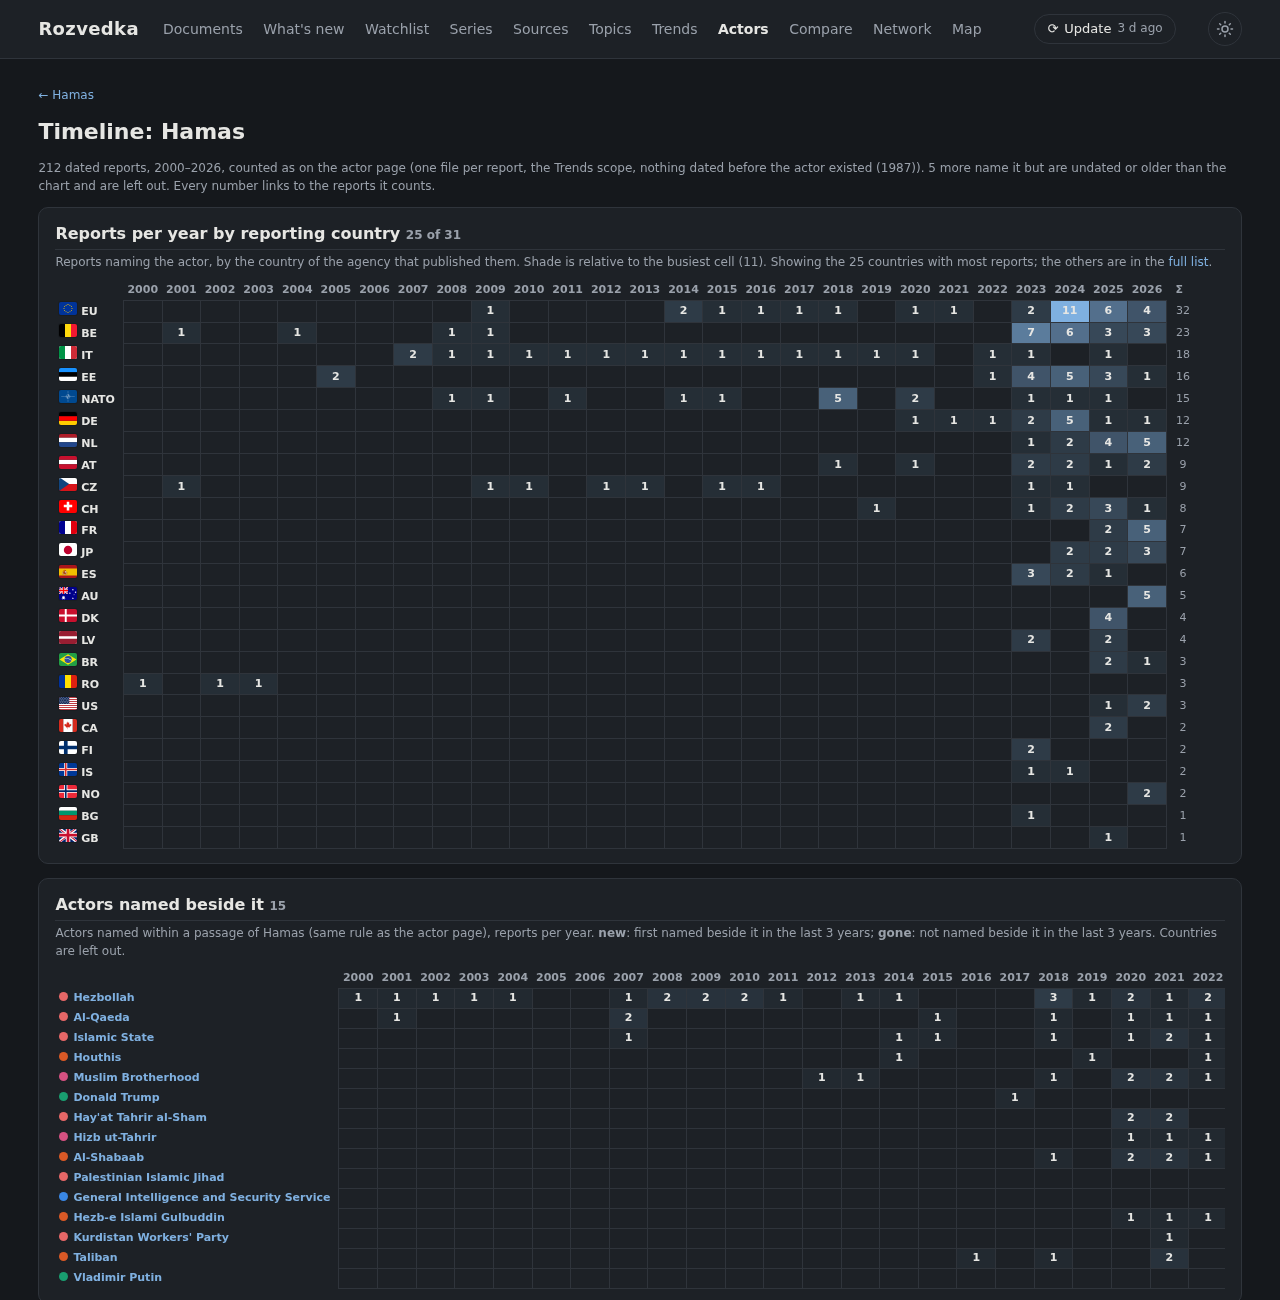
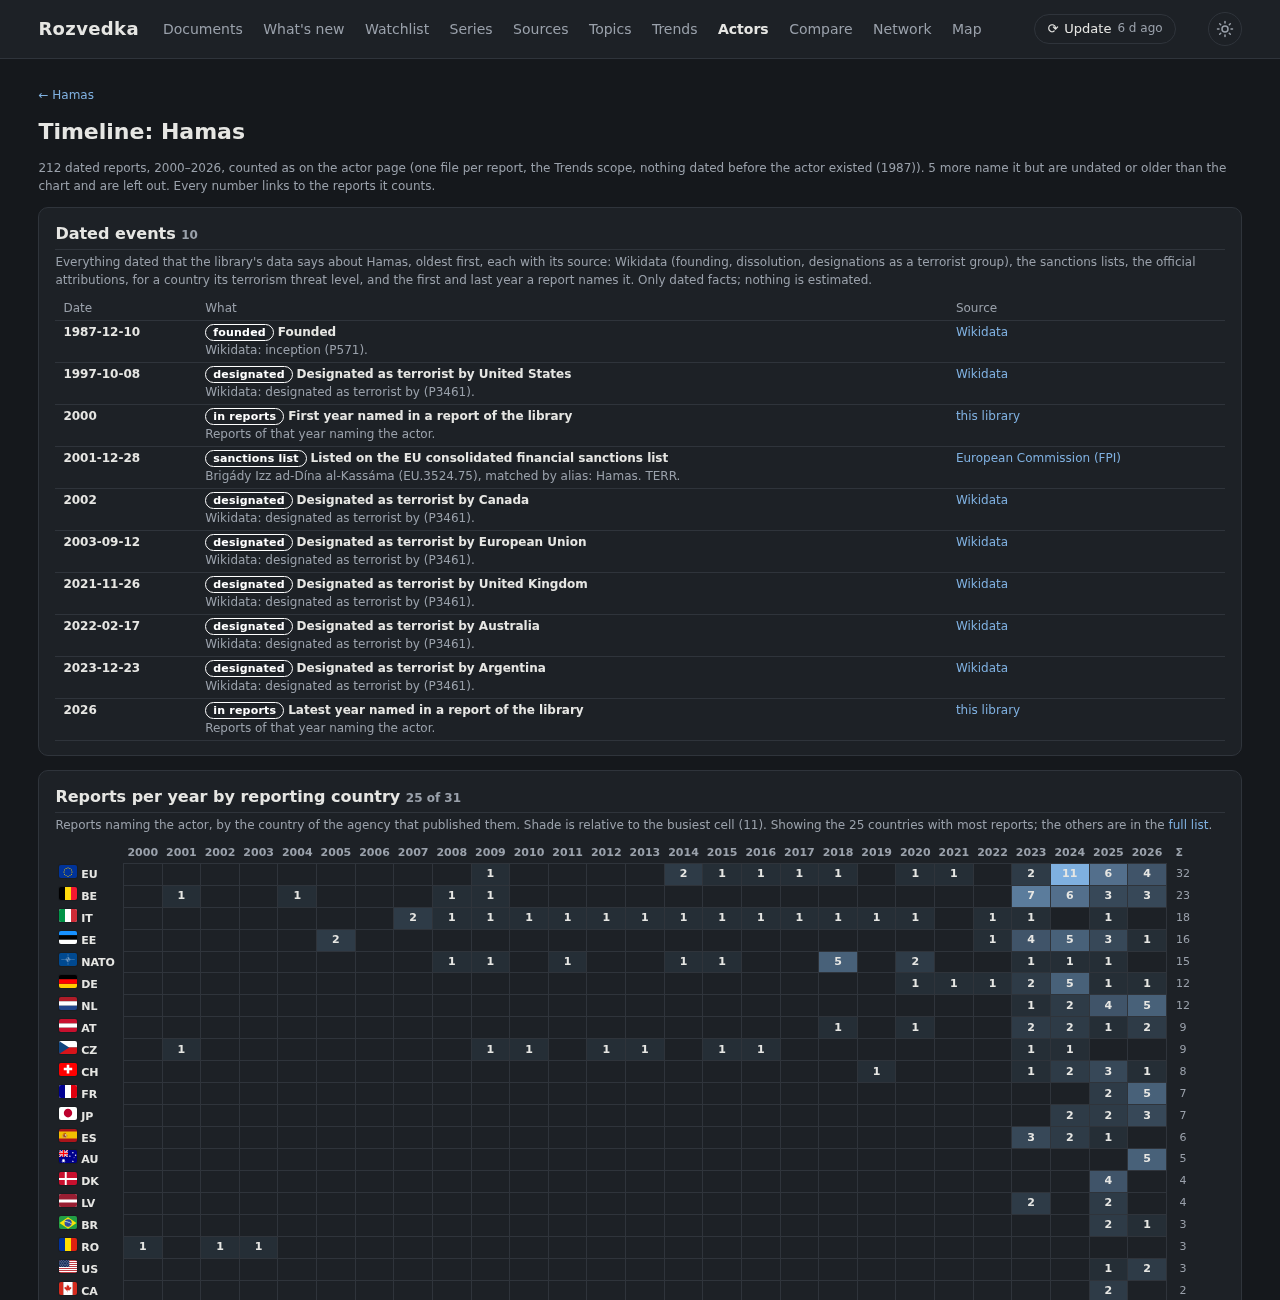
feat: dated events with sources on the actor timeline (0.52.0)

Changed region(s): [[0.0312, 0.1538, 0.9375, 1.0], [0.7812, 0.5538, 0.875, 0.6154]]

diff --git a/rozvedka/templates/actor_timeline.html b/rozvedka/templates/actor_timeline.html
@@ -12,6 +12,22 @@
   {% if undated %}{{ undated }} more name{{ 's' if undated == 1 }} it but {{ 'is' if undated == 1 else 'are' }} undated or older than the chart and {{ 'is' if undated == 1 else 'are' }} left out. {% endif %}
   Every number links to the reports it counts.</p>
 
+{% if events %}
+<section class="viz-card" id="events">
+  <h2 class="viz-title">Dated events <span class="muted small">{{ events|length }}</span></h2>
+  <p class="muted small viz-sub">Everything dated that the library's data says about {{ a.label }}, oldest first, each with its source: Wikidata (founding, dissolution,
+    designations as a terrorist group), the sanctions lists, the official attributions, for a country its terrorism threat level, and the first
+    and last year a report names it. Only dated facts; nothing is estimated.</p>
+  <table class="rp-topics small">
+    <thead><tr><th>Date</th><th>What</th><th>Source</th></tr></thead>
+    {% for e in events %}<tr><th class="nw">{{ e.date }}</th>
+      <td><span class="ctag">{{ {'founded': 'founded', 'dissolved': 'dissolved', 'designated': 'designated', 'listed': 'sanctions list', 'attributed': 'attribution', 'threat-level': 'threat level', 'first': 'in reports', 'last': 'in reports'}[e.kind] }}</span>
+        <b>{{ e.title }}</b>{% if e.detail %}<br><span class="muted">{{ e.detail }}</span>{% endif %}
+        {% if e.quote %}<blockquote class="snippet small">“{{ e.quote }}”</blockquote>{% endif %}</td>
+      <td>{% if e.source_url %}<a href="{{ e.source_url }}"{% if e.source != 'this library' %} rel="noopener"{% endif %}>{{ e.source }}</a>{% else %}{{ e.source }}{% endif %}</td></tr>{% endfor %}
+  </table>
+</section>
+{% endif %}
 <section class="viz-card">
   <h2 class="viz-title">Reports per year by reporting country <span class="muted small">{{ countries|length }} of {{ n_countries }}</span></h2>
   <p class="muted small viz-sub">Reports naming the actor, by the country of the agency that published them. Shade is relative to the

diff --git a/rozvedka/templates/actor.html b/rozvedka/templates/actor.html
@@ -39,7 +39,7 @@
   <h2 class="viz-title">In the reports</h2>
   <p class="viz-sub muted small"><b>{{ docs }}</b> reports by <b>{{ agencies|length }}</b> agencies mention {{ a.label }}
     · <a href="/documents?actor={{ a.key }}">list them</a> · <a href="/compare?actor={{ a.key }}">compare what agencies say</a>
-    · <a href="/actors/{{ a.key }}/timeline">timeline by agency, country and neighbour</a>
+    · <a href="/actors/{{ a.key }}/timeline">dated events and timeline by agency, country and neighbour</a>
     <form method="post" action="/watch/add" class="inline"><input type="hidden" name="query" value='actor:"{{ a.label }}"'>
       <button class="watch-btn" title="Follow this actor update by update on the Watchlist">☆ Watch</button></form></p>
   {% if timeline %}

diff --git a/rozvedka/actor_events.py b/rozvedka/actor_events.py
@@ -1,0 +1,69 @@
+"""Dated events of one actor, each with its source: what the library's data says happened when.
+
+  founded / dissolved   – Wikidata (inception P571, dissolved P576)
+  designated (Wikidata) – "designated as terrorist by" statements with a start date (P3461)
+  designated (list)     – entries of the EU, UK, UN and US sanctions lists with a date (the OFAC file has none)
+  attributed            – official statements naming the actor (sources/attributions.yaml)
+  threat level          – for a country: the official announcements of changes of its terrorism threat level
+  first / last named    – the earliest and latest year a report in the library names the actor
+Only dated facts are listed; nothing is inferred and nothing is estimated."""
+import json
+
+from . import actors, attributions, db, sanctions, threat_levels, trends
+
+
+def _sortable(date: str) -> str:
+    return (str(date) + "-00-00")[:10] if len(str(date)) < 10 else str(date)[:10]
+
+
+def of_actor(key: str) -> list[dict]:
+    out: list[dict] = []
+    with db.session() as con:
+        actors.init()
+        row = con.execute("SELECT key, label, kind, iso, data FROM actors WHERE key=?", (key,)).fetchone()
+        if not row:
+            return []
+        data = json.loads(row["data"] or "{}")
+        wd = (data.get("wikidata") or {})
+        wd_url = wd.get("url")
+        wd_src = {"source": "Wikidata", "source_url": wd_url}
+        if data.get("inception"):
+            out.append({"date": data["inception"], "kind": "founded", "title": "Founded", "detail": "Wikidata: inception (P571).", **wd_src})
+        if data.get("dissolved"):
+            out.append({"date": data["dissolved"], "kind": "dissolved", "title": "Dissolved", "detail": "Wikidata: dissolved (P576).", **wd_src})
+        for d in data.get("designations") or []:
+            if d.get("start"):
+                out.append({"date": d["start"], "kind": "designated", "title": f"Designated as terrorist by {d.get('by_label') or d.get('by')}",
+                            "detail": "Wikidata: designated as terrorist by (P3461)" + (f", until {d['end']}" if d.get("end") else "") + ".",
+                            **wd_src})
+        where, args, _ = trends.scope()
+        r = con.execute(
+            f"""SELECT MIN(d.year) y0, MAX(d.year) y1 FROM doc_actors da JOIN documents d ON d.id=da.doc_id
+                JOIN sources s ON s.id=d.source_id JOIN doc_index i ON i.doc_id=d.id
+                WHERE da.actor_key=? AND {where} AND {actors.NOT_BEFORE_FOUNDED.replace('a.since_year', '(SELECT since_year FROM actors WHERE key=da.actor_key)')}
+                AND d.year >= ?""", (key, *args, trends.MIN_YEAR)).fetchone()
+        if r and r["y0"]:
+            for which, y in (("first", r["y0"]), ("last", r["y1"])):
+                if which == "last" and r["y1"] == r["y0"]:
+                    continue
+                out.append({"date": str(y), "kind": which, "title": f"{'First' if which == 'first' else 'Latest'} year named in a report of the library",
+                            "detail": "Reports of that year naming the actor.", "source": "this library",
+                            "source_url": trends.docs_url({"actor": key}, year=y)})
+        iso = row["iso"] if row["kind"] == "country" else None
+    for s in sanctions.of_actor(key):
+        if s.get("date"):
+            out.append({"date": s["date"], "kind": "listed", "title": f"Listed on the {sanctions.LISTS[s['list']]['name']}",
+                        "detail": f"{s['entry']} ({s['ref']}), matched by {s['via']}: {s['matched']}." + (f" {s['programme']}." if s.get("programme") else ""),
+                        "source": sanctions.LISTS[s["list"]]["issuer"], "source_url": s["url"]})
+    for a in attributions.of_actor(key):
+        out.append({"date": a["date"], "kind": "attributed", "title": a["title"], "detail": a["says"],
+                    "source": a["by"], "source_url": a["url"], "quote": a["quote"], "confirmed": a["confirmed"]})
+    if iso:
+        for e in threat_levels.load():
+            if e["kind"] == "announcement" and e["country"] == iso:
+                out.append({"date": str(e["as_of"]), "kind": "threat-level",
+                            "title": f"Terrorism threat level {e['change']} to {e['label']}", "detail": f"{e['system']}: {e['says']}",
+                            "source": e["agency"], "source_url": e["url"], "quote": e["quote"]})
+    # a year without a day sorts to the start of the year – except "latest year", which goes to its end
+    out.sort(key=lambda e: ((e["date"] + "-99-99") if e["kind"] == "last" else _sortable(e["date"]), e["kind"]))
+    return out

diff --git a/tests/test_actor_events.py b/tests/test_actor_events.py
@@ -1,0 +1,62 @@
+"""Dated events of an actor: every fact has a date and a source."""
+import json
+
+import pytest
+from fastapi.testclient import TestClient
+
+from rozvedka import actor_events, actors, attributions, collect, db, sanctions, series, threat_levels, topics
+
+
+@pytest.fixture
+def library(tmp_path, monkeypatch):
+    monkeypatch.setattr(db, "DB_PATH", tmp_path / "t.db")
+    monkeypatch.setattr(series, "SERIES_FILE", tmp_path / "series.yaml")
+    monkeypatch.setattr(collect, "INBOX", tmp_path / "inbox")
+    f = tmp_path / "attributions.yaml"
+    f.write_text("""attributions:
+  - {date: 2025-05-21, by: NCSC, country: GB, kind: cyber, actors: [Q1], title: T1, url: "https://x/1", quote: q1, says: s1}
+""", encoding="utf-8")
+    monkeypatch.setattr(attributions, "FILE", f)
+    monkeypatch.setattr(attributions, "CHECKS", tmp_path / "checks.json")
+    attributions._checks.cache_clear()
+    monkeypatch.setattr(sanctions, "of_actor", lambda key: [
+        {"list": "EU", "ref": "EU.1", "entry": "Group X", "via": "name", "matched": "Group X", "programme": "Cyber", "date": "2020-10-22",
+         "url": "https://eur-lex.example/1"}] if key == "Q1" else [])
+    monkeypatch.setattr(threat_levels, "load", lambda: [
+        {"kind": "announcement", "country": "GB", "as_of": "2026-05-01", "label": "severe", "change": "from substantial", "system": "UK national",
+         "says": "Raised.", "agency": "MI5", "url": "https://mi5.example/", "quote": "raised"},
+        {"kind": "report", "country": "GB", "as_of": "2025", "label": "x", "change": None, "system": "s", "says": "s", "agency": "a", "url": "u", "quote": "q"}])
+    db.init()
+    collect.init()
+    topics.init()
+    actors.init()
+    data1 = {"inception": "2004", "dissolved": None, "wikidata": {"url": "https://wikidata.example/Q1"},
+             "designations": [{"by": "Q30", "by_label": "United States", "start": "1997-10-08", "end": None}, {"by": "Q801", "by_label": "Israel", "start": None, "end": None}]}
+    with db.session() as con:
+        con.execute("INSERT INTO sources(id,key,country,agency,type) VALUES(1,'CZ/X','CZ','X','cyber')")
+        con.execute("INSERT INTO actors(key,kind,label,data,since_year) VALUES('Q1','cyber','Group X',?,2004)", (json.dumps(data1),))
+        con.execute("INSERT INTO actors(key,kind,label,data,iso) VALUES('Q145','country','United Kingdom','{}','GB')")
+        for i, y in ((1, 2010), (2, 2024)):
+            con.execute("INSERT INTO documents(id,source_id,url,title,year,lang,status) VALUES(?,1,?,?,?,'en','downloaded')", (i, f"https://x/{i}.pdf", f"R{i}", y))
+            con.execute("INSERT INTO doc_text(rowid,title,body) VALUES(?,?,?)", (i, "", "Group X"))
+            con.execute("INSERT INTO doc_index(doc_id,chars,taxonomy_hash,pages) VALUES(?,?,?,?)", (i, 7, "x", "[0]"))
+            con.execute("INSERT INTO doc_actors(doc_id,actor_key,hits,spans,names) VALUES(?, 'Q1', 1, '[[0,7]]', '{}')", (i,))
+    return tmp_path
+
+
+def test_events_are_dated_sourced_and_sorted(library):
+    ev = actor_events.of_actor("Q1")
+    assert [(e["date"], e["kind"]) for e in ev] == [("1997-10-08", "designated"), ("2004", "founded"), ("2010", "first"),
+                                                    ("2020-10-22", "listed"), ("2024", "last"), ("2025-05-21", "attributed")]
+    assert all(e["source"] and e["source_url"] for e in ev)          # undated designations (Israel) are not listed
+    assert ev[0]["source_url"] == "https://wikidata.example/Q1" and "United States" in ev[0]["title"]
+    assert ev[3]["source_url"].startswith("https://eur-lex") and ev[5]["quote"] == "q1"
+    uk = actor_events.of_actor("Q145")
+    assert [(e["date"], e["kind"]) for e in uk] == [("2026-05-01", "threat-level")]       # only announcements, not report statements
+    assert actor_events.of_actor("nope") == []
+
+
+def test_page_shows_the_events(library):
+    from rozvedka.app import app
+    t = TestClient(app).get("/actors/Q1/timeline").text
+    assert 'id="events"' in t and "Designated as terrorist by United States" in t and "1997-10-08" in t and "Listed on the" in t

diff --git a/rozvedka/routes/actors.py b/rozvedka/routes/actors.py
@@ -1,7 +1,7 @@
 """Actors: list, review, pairs, sanctions, attributions, timeline and actor pages."""
 from fastapi import APIRouter, Form, HTTPException, Query, Request
 from fastapi.responses import FileResponse, RedirectResponse
-from .. import actor_profiles, actors, attributions, cves, db, graphs, paging, review, sanctions, timeline, topics, trends
+from .. import actor_events, actor_profiles, actors, attributions, cves, db, graphs, paging, review, sanctions, timeline, topics, trends
 from ..web import _years_desc, tpl
 
 router = APIRouter()
@@ -105,7 +105,7 @@ def actor_timeline(request: Request, key: str):
     d = timeline.detail(key)
     if d is None:
         raise HTTPException(404, "unknown actor")
-    return tpl.TemplateResponse(request, "actor_timeline.html", d)
+    return tpl.TemplateResponse(request, "actor_timeline.html", {**d, "events": actor_events.of_actor(key)})
 
 
 @router.get("/actors/{key}")

diff --git a/rozvedka/__init__.py b/rozvedka/__init__.py
@@ -5,7 +5,7 @@ from pathlib import Path
 
 # Single source of the release version (Semantic Versioning, https://semver.org).
 # Do not edit by hand: run `python3 tools/bump_version.py patch|minor|major` (see CHANGELOG.md, "Versioning").
-__version__ = "0.51.0"
+__version__ = "0.52.0"
 
 
 @lru_cache(maxsize=1)

diff --git a/CHANGELOG.md b/CHANGELOG.md
@@ -27,6 +27,15 @@ From 0.9.1 on, the significance of a change decides which part of `MAJOR.MINOR.P
 
 ## [Unreleased]
 
+## [0.52.0] – 2026-10-12
+
+### Added
+- **Dated events on the actor timeline**: the page `/actors/<key>/timeline` opens with everything dated that the library's data says
+  about the actor, oldest first, each with its source – founding and dissolution and designations as a terrorist group
+  (Wikidata, with the designating state), entries of the EU, UK, UN and US sanctions lists, the official attributions,
+  for a country the official changes of its terrorism threat level, and the first and last year a report names the actor.
+  Only dated facts; nothing is estimated (undated Wikidata designations are left out).
+
 ## [0.51.0] – 2026-10-12
 
 ### Added
@@ -1055,7 +1064,8 @@ From 0.9.1 on, the significance of a change decides which part of `MAJOR.MINOR.P
 - Crawler, polite downloader (robots.txt, per-host delay, PDF check, de-duplication) and FastAPI web portal.
 - systemd user units for the portal and a weekly update timer.
 
-[Unreleased]: https://github.com/iiogurt/Rozvedka/compare/v0.51.0...HEAD
+[Unreleased]: https://github.com/iiogurt/Rozvedka/compare/v0.52.0...HEAD
+[0.52.0]: https://github.com/iiogurt/Rozvedka/compare/v0.51.0...v0.52.0
 [0.51.0]: https://github.com/iiogurt/Rozvedka/compare/v0.50.0...v0.51.0
 [0.50.0]: https://github.com/iiogurt/Rozvedka/compare/v0.49.0...v0.50.0
 [0.49.0]: https://github.com/iiogurt/Rozvedka/compare/v0.48.0...v0.49.0

diff --git a/docs/ROADMAP.md b/docs/ROADMAP.md
@@ -111,6 +111,7 @@ Each item: why · what · done when · version step.
    DE PKGr, NO EOS-utvalget, DK TET, UK IPCO): official, and they report what the services do not. · patch (sources)
 5. ◐ (0.44.1: DE, NATO, US DoD; more countries to add) **National security strategies and white papers** – the governments' own strategy documents, linked to their
    agencies; a natural "document type" (B3). · patch (sources)
+6d. ✅ (0.52.0) **Dated events per actor** – Wikidata dates, sanctions-list entries, attributions, country threat levels and first/last report year on the actor timeline. Next: CVE and incident dates once they are tied to actors beyond nearness. · minor
 6c. ✅ (0.51.0) **Citations between reports and agencies** – addresses in the texts resolved against the library; `/citations`, report pages, Documents filter. Next: the names of cited documents (not only addresses), a graph by agency pair. · minor
 6b. ✅ (0.50.0) **Terrorism threat levels** – dated official statements per state with passage (UK MI5 announcements; levels stated in NL, BE, ES, AT, SE, LV reports). Next: more states (FI, DK, FR, CH), the NCTV quarterly levels. · minor
 6a. ✅ (0.49.0) **CVE numbers and the Known Exploited list** – CVEs named in reports linked to CISA's KEV catalog (CC0), on actor, report and CVE pages. · minor

diff --git a/README.md b/README.md
@@ -288,7 +288,9 @@ no periodic job.
 - Each actor page: reference data with its source and revision, the Wikipedia lead, mentions per year, which
   agencies report on it, the topics of those reports, actors named in the same passage, and **the passages
   themselves with a link to the cited page of the PDF**.
-- **Actor timeline** (`/actors/<key>/timeline`, linked from every actor page) – a year × reporting-country grid of the
+- **Actor timeline** (`/actors/<key>/timeline`, linked from every actor page) – first the **dated events** (founding, designations
+  as a terrorist group, sanctions-list entries, official attributions, for a country its threat-level changes, first and last year
+  in the reports – each with its source), then a year × reporting-country grid of the
   reports that name the actor, a year grid of the actors named in the same passage (marked **new** or **gone** when they
   appeared or vanished in the last three years), and the first and last report of each agency. Every cell links to the
   reports it counts.
